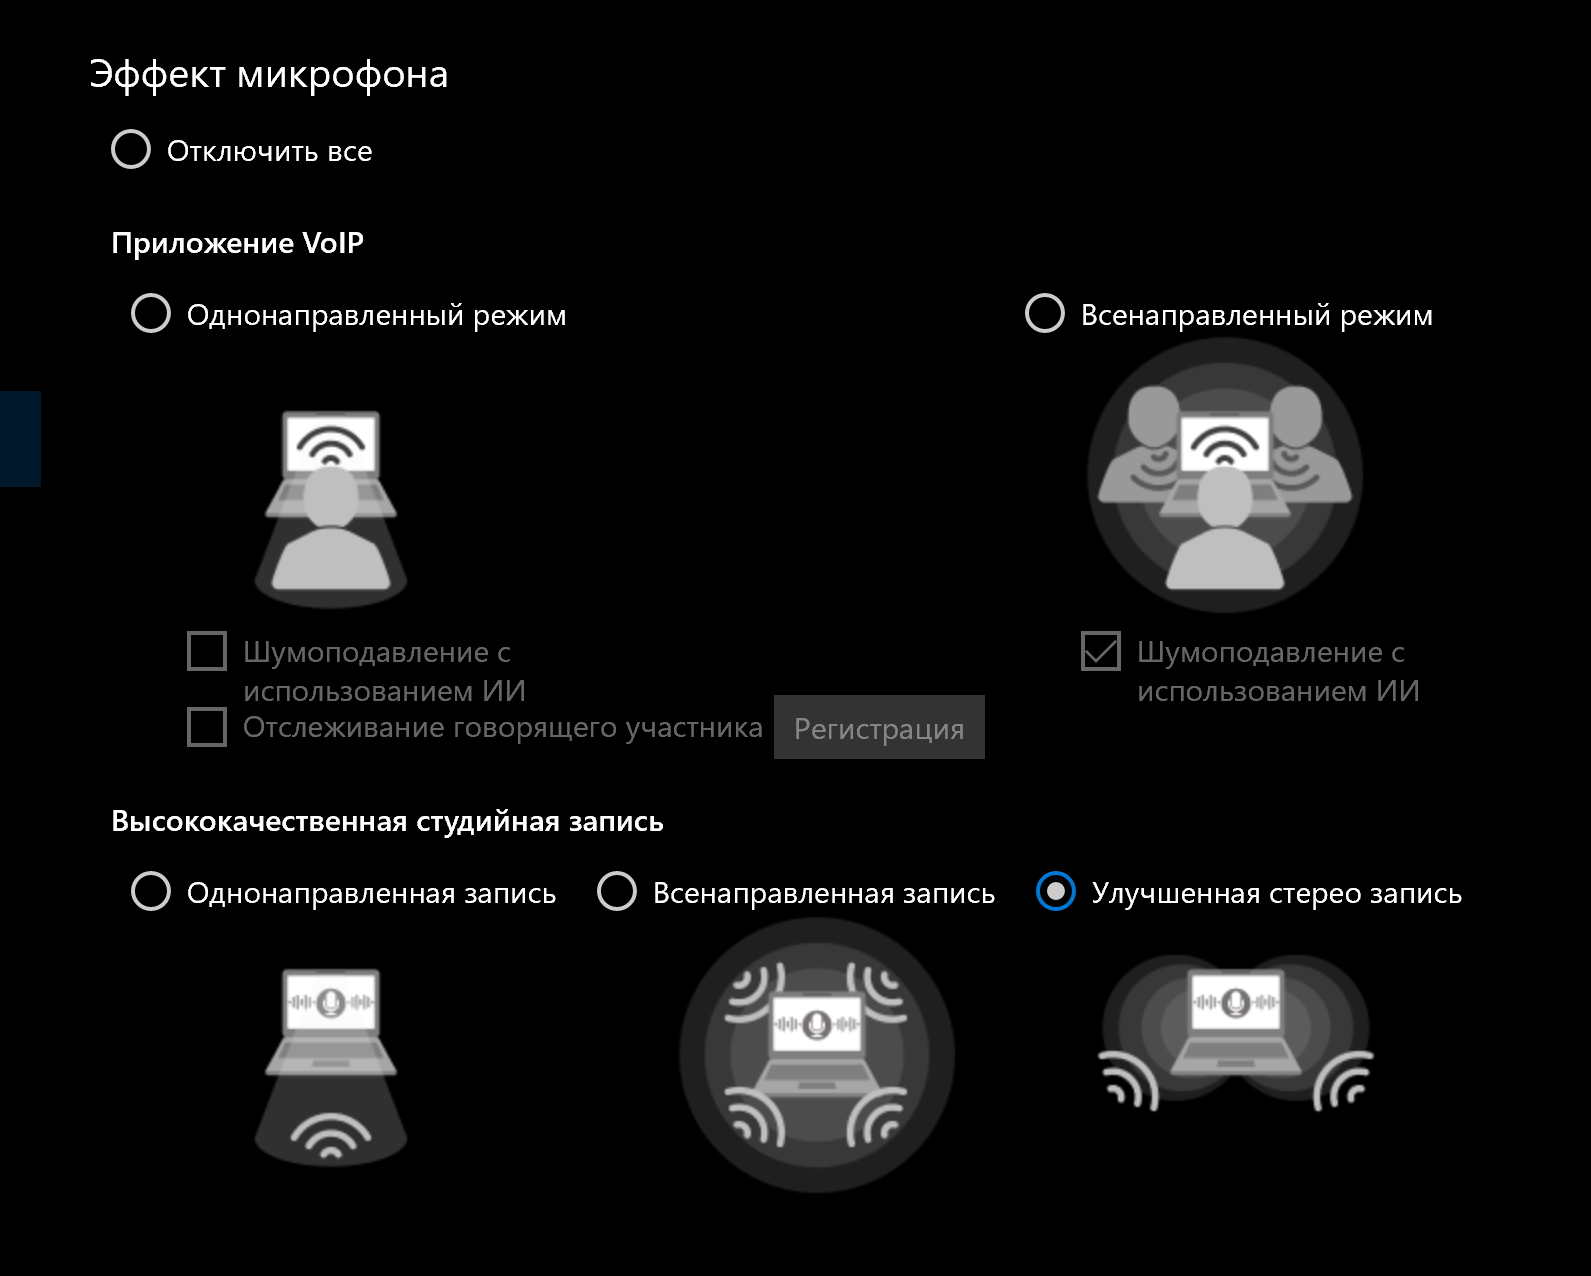
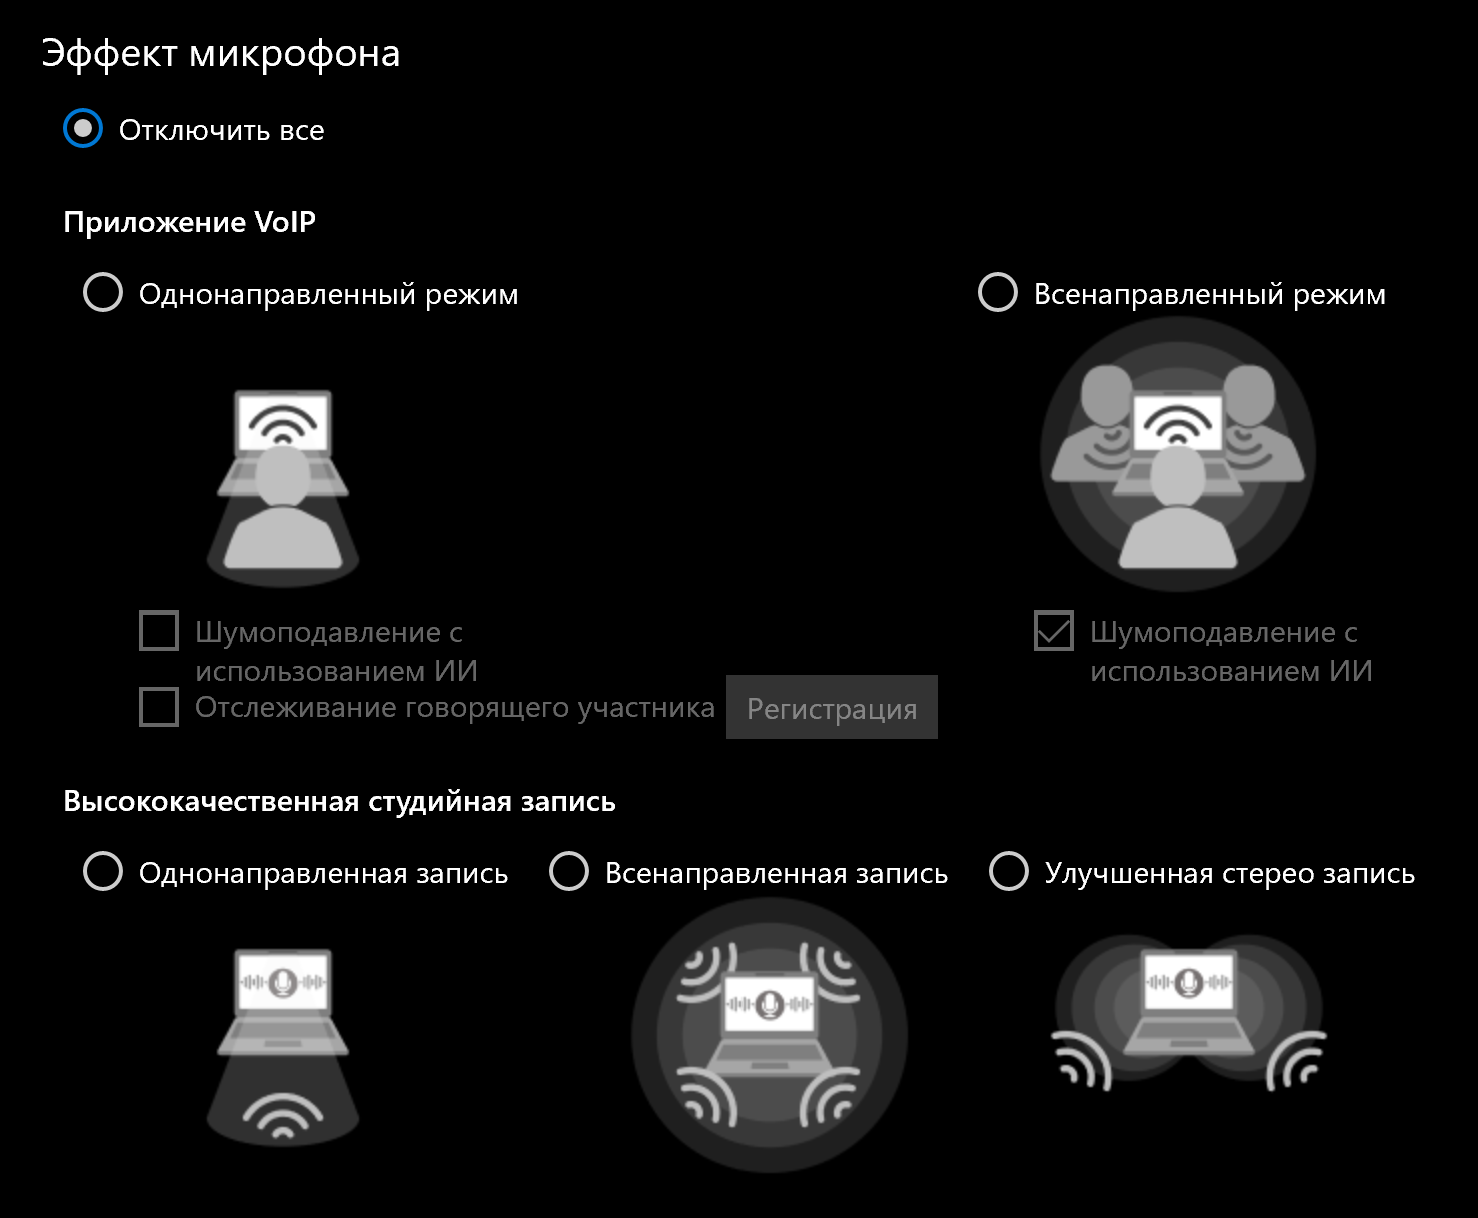
v1.9.3

diff --git a/README.md b/README.md
@@ -231,7 +231,7 @@
 
 ### Лучшие параметры для микрофона
 
-В приложении [Realtek Audio Console](https://apps.microsoft.com/detail/9p2b8mcsvpln) в разделе **Набор микрофонов** выберете "Улучшенная стерео запись" или "Отключить всё".
+В приложении [Realtek Audio Console](https://apps.microsoft.com/detail/9p2b8mcsvpln) в разделе **Набор микрофонов** выберете "Отключить всё".
 
 ![Настройка микрофона](files/Настройка%20микрофона.png)
 
